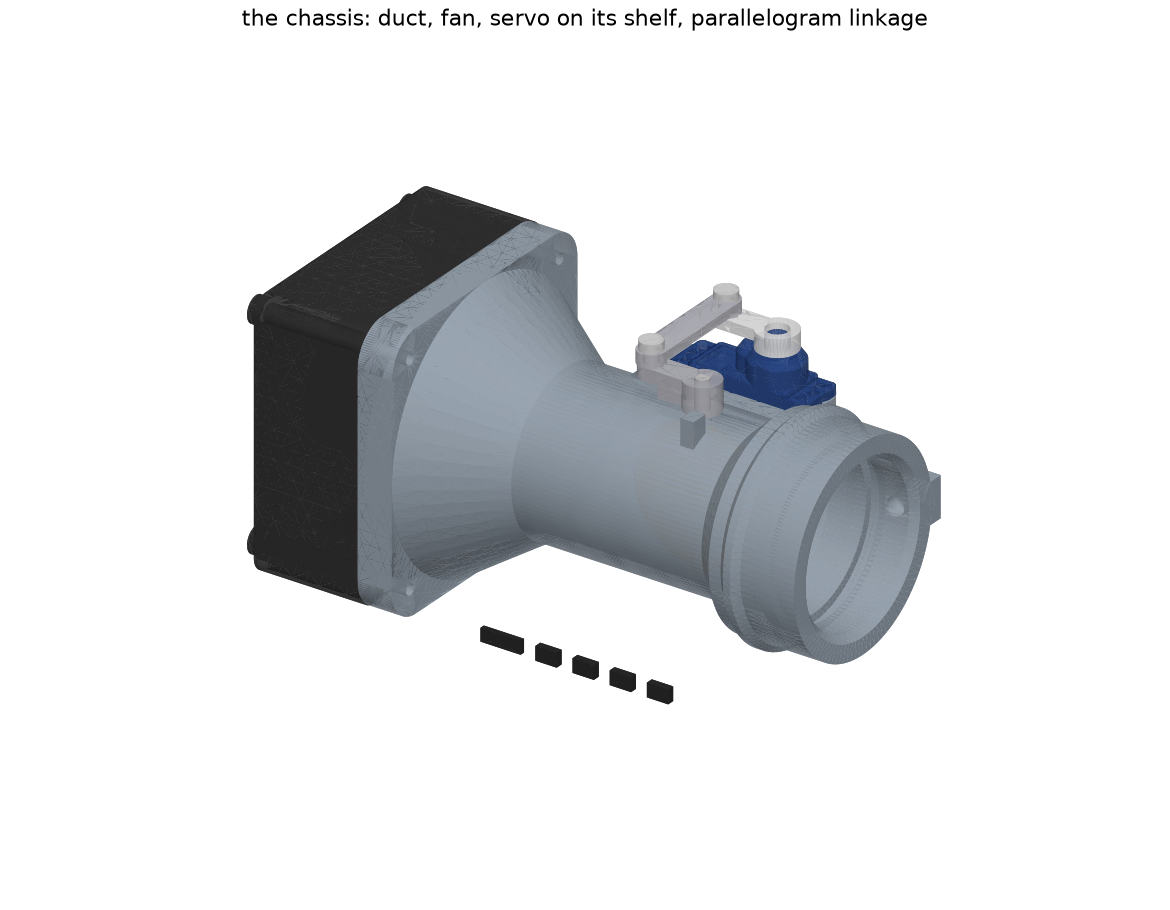
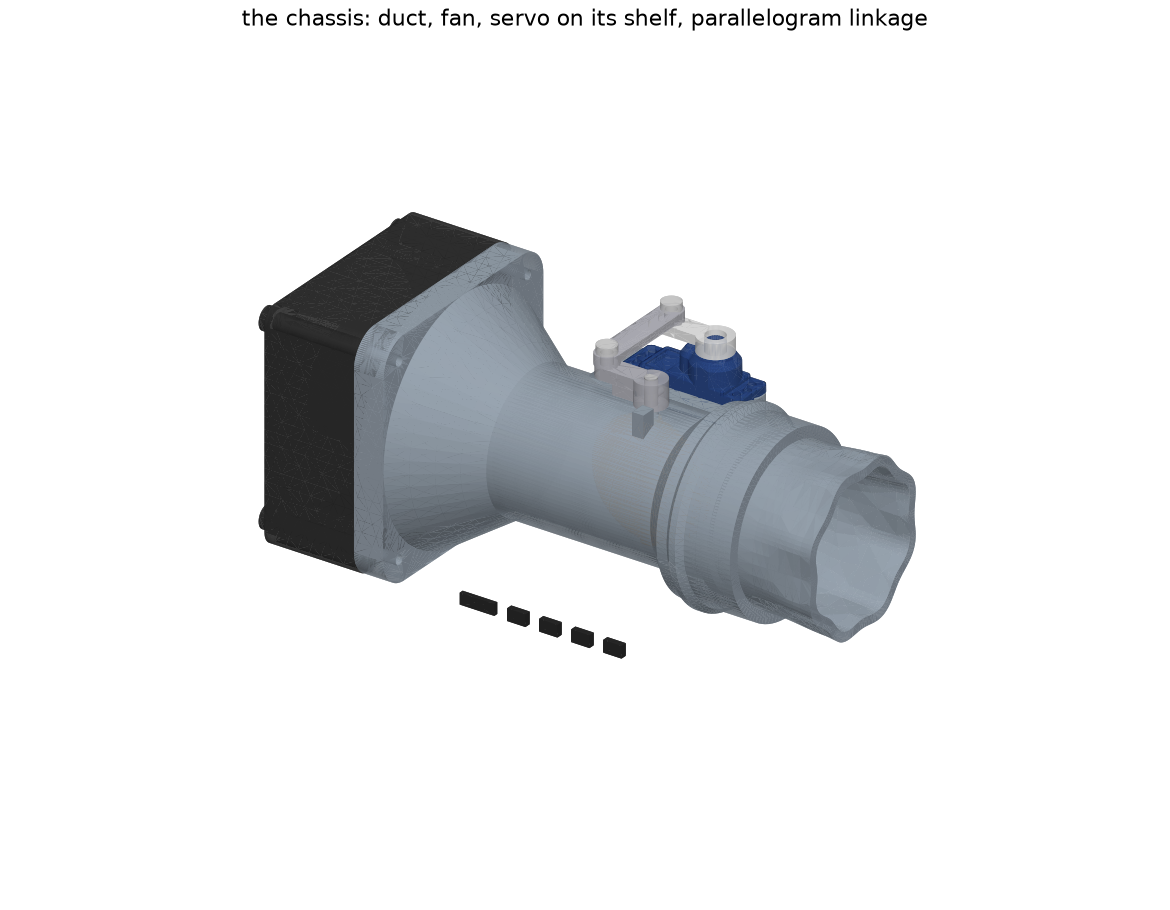
Duct: 20 mm socket extension with an 8-lobe gripping bore; the M4 thumbscrew goes (e5g). The socket runs on past the old mouth (Coupling.ext_len, a placeholder). Over it the bore goes from round to eight sinusoidal lobes (+-0.81 on the radius) along a smootherstep, the mean growing 1 mm on the diame

Changed region(s): [[0.2154, 0.1846, 0.8308, 0.7692]]

diff --git a/src/minimeater/mech/parts.py b/src/minimeater/mech/parts.py
@@ -12,12 +12,15 @@ from build123d import (
     Box,
     Cone,
     Cylinder,
+    Edge,
     Plane,
+    Solid,
     Sphere,
     Torus,
     Polyline,
     Pos,
     Rot,
+    Wire,
     extrude,
     make_face,
 )
@@ -75,6 +78,53 @@ def sock_r():
     return (P.tube.od + 0.3) / 2
 
 
+def smootherstep(t):
+    """0 -> 1 with zero slope and curvature at both ends."""
+    t = min(max(t, 0.0), 1.0)
+    return t * t * t * (t * (6 * t - 15) + 10)
+
+
+def lobe_amp():
+    """The wave's amplitude on the radius: with the mean bore grown by `ext_grow_d`, the crests reach `grip` into the tube
+    where the lead starts (the transition is not quite complete there)."""
+    c = P.coupling
+    s = smootherstep((c.ext_len - c.lead_len) / c.ext_len)
+    return c.ext_grow_d / 2 + (sock_r() + c.grip - P.tube.od / 2) / s
+
+
+def socket_r(x, th):
+    """The socket's bore radius at x and angle th: round up to the old mouth (x = 0), then over `ext_len` the mean grows and
+    the wave comes in along a smootherstep (crests at th = 0, 45, ...), and the last `lead_len` opens so the crests clear the tube."""
+    c = P.coupling
+    s = smootherstep(x / c.ext_len)
+    r = sock_r() + s * (c.ext_grow_d / 2 - lobe_amp() * math.cos(c.lobes * th))
+    open_ = P.tube.od / 2 + c.lead_clear - (sock_r() + c.ext_grow_d / 2 - lobe_amp())  # the crests' rise to clear the tube at the mouth
+    return r + smootherstep((x - (c.ext_len - c.lead_len)) / c.lead_len) * open_
+
+
+def _socket_stations():
+    c = P.coupling
+    step = c.ext_len / 20  # the same spacing all the way, so the loft's spline does not ring between sparse and dense sections
+    n0 = math.ceil((0.5 - g.socket_x0) / step)
+    xs = [-step * i for i in range(n0 + 1)]  # round, from the mouth back past the shoulder
+    xs += [step * i for i in range(1, 20)]  # the transition
+    xs += [c.ext_len - c.lead_len + c.lead_len * i / 4 for i in range(1, 5)]  # the lead
+    return sorted(set(round(x, 6) for x in xs))
+
+
+def socket_loft(extra=0.0, x0=None):
+    """The socket's bore offset outward by `extra` (0: the bore; the wall's thickness: the extension's outside), lofted through
+    sections from `x0` (default: behind the shoulder) to the mouth."""
+    n = 16 * P.coupling.lobes
+    wires = []
+    xs = _socket_stations() if x0 is None else [x0] + [x for x in _socket_stations() if x > x0]
+    for x in xs:
+        pts = [(x, (socket_r(x, th) + extra) * math.cos(th), (socket_r(x, th) + extra) * math.sin(th))
+               for th in (2 * math.pi * i / n for i in range(n))]
+        wires.append(Wire([Edge.make_spline(pts, periodic=True)]))
+    return Solid.make_loft(wires)
+
+
 def groove_r():
     return sock_r() + P.coupling.groove_depth
 
@@ -95,8 +145,6 @@ SHELF_Y1 = G.SERVO_Y0 + P.servo.body_w + 0.2
 SHELF_X0 = G.TAB_HOLE_XS[0] - 6.5  # the rear end leans 44 deg: room for the pilots to reach full depth
 SHELF_X1 = G.TAB_HOLE_XS[1] + 2.3  # short of the shells' front cone
 BLOCK_D = 7.0  # the blocks under the tabs, from the tab's underside: a 6 mm pilot and a 1 mm floor
-BOSS_Y0 = G.g.duct_r + 1.8  # the thumbscrew boss: from inside the socket wall out past it
-BOSS_Y1 = P.coupling.od / 2 + 3.0
 
 
 def servo_shelf():
@@ -128,16 +176,6 @@ def servo_shelf():
     return s
 
 
-def thumbscrew_boss():
-    """A block on the socket's +y side, flush with the mouth (the print bed), rounded on its -x edges; it takes
-    an M4 heat-set insert for the thumbscrew."""
-    c = P.coupling
-    hw = c.boss_w / 2
-    b = box(c.boss_x - hw, 0.0, BOSS_Y0, BOSS_Y1, -hw, hw)
-    b = b.fillet(hw - 0.8, b.edges().filter_by(Axis.Y).filter_by(lambda e: e.center().X < c.boss_x))
-    return b
-
-
 def stop_posts():
     """Two posts on the duct's crown that the crank's lug stops against: open (0 deg) the lug lies along -x and its +y face
     meets the first post; closed (90 deg) the lug lies along -y and its +x face meets the second. Both stand beside the
@@ -153,7 +191,7 @@ def stop_posts():
 
 def duct():
     """Fan flange, contraction cone, the straight bore with the flap station, the servo shelf and the socket
-    onto the intake tube, with its drip collar and the thumbscrew boss."""
+    onto the intake tube, with its drip collar and its extension toward the egg, whose lobed bore grips the tube."""
     c = P.coupling
     br, dr, w = g.bore_r, g.duct_r, g.flange_w
     xf = g.flap_x
@@ -172,19 +210,16 @@ def duct():
     outer += xcone(c.od / 2, c.collar_r, c.collar_x - 1.5 - 1.6 - dc * k, c.collar_x - 1.5 - 1.6)
     outer += xcyl(c.collar_r, c.collar_x - 1.5 - 1.6, c.collar_x - 1.5)
     outer += xcone(c.collar_r, c.od / 2, c.collar_x - 1.5, c.collar_x)
-    outer += thumbscrew_boss()
+    outer += socket_loft(P.print.wall, x0=-1.0)  # the extension, its wall following the wave; it starts inside the Ø46
     body = outer + servo_shelf() + stop_posts()
 
     # the airway and the features cut into the walls
     body -= xcone(P.fan.aperture_d / 2, br, g.fan_face_x - 0.1, g.straight_x0)
     body -= xcyl(br, g.straight_x0 - 0.01, g.socket_x0 + 0.01)
-    body -= xcyl(sock_r(), g.socket_x0, 0.5)
+    body -= socket_loft()
     body -= xcone(br, sock_r() + 0.01, g.socket_x0 - (sock_r() - br) * k, g.socket_x0 + 0.01)  # the shoulder, 44 deg
-    body -= xcone(sock_r(), sock_r() + c.lead_in, -c.lead_in, 0.0)  # lead-in chamfer at the mouth
     body -= xcyl(groove_r(), c.oring_x - 1.6, c.oring_x + 1.6)
     body -= zcyl(1.7, -dr + 1.2, dr + 1.0, xf, 0.0)  # shaft bore, blind at the bottom: a 1.2 mm skin
-    body -= ycyl(2.8, BOSS_Y0 + 2.0, BOSS_Y1 + 0.1, c.boss_x, 0.0)  # M4 heat-set insert for the thumbscrew: Ø5.6 x 4 deep, a short M4 x 4
-    body -= ycyl(2.1, br - 0.5, BOSS_Y0 + 2.1, c.boss_x, 0.0)  # the screw reaches the tube
     for sy in (-1, 1):
         for sz in (-1, 1):
             body -= xcyl(1.3, g.fan_face_x - 0.1, g.fan_face_x + 9.0, sy * P.fan.hole_pitch / 2, sz * P.fan.hole_pitch / 2)

diff --git a/tests/test_mech.py b/tests/test_mech.py
@@ -27,7 +27,7 @@ def test_part_is_one_valid_solid(printed, name):
 def test_no_interference_at_any_flap_angle(deg):
     """Every chassis part and bought part, with the flap, crank, horn, pins and coupler at `deg`."""
     allp = {**A.printed(deg), **A.bought(deg)}
-    hits = [h for h in A.interferences(allp) if set(h[:2]) != {"duct", "oring"}]  # the ring is squeezed by design
+    hits = [h for h in A.interferences(allp) if set(h[:2]) not in ({"duct", "oring"}, {"duct", "tube"})]  # the ring is squeezed and the tube gripped by design
     assert hits == []
 
 
@@ -122,8 +122,39 @@ def test_oring_seals_the_joint():
     assert A.overlap(ring, A.bought()["tube"]) < 0.5
 
 
-def test_tube_seats_on_the_shoulder_without_touching_the_duct():
-    assert A.overlap(A.bought()["tube"], A.printed()["duct"]) < 0.5
+def test_the_socket_grips_the_tube_over_its_extension_only():
+    """The tube seats on the shoulder and slides free through the round socket and the first half of the extension; the
+    lobes' crests then reach in to `grip` and the last `lead_len` lets them out again, so the tube starts freely."""
+    import math
+
+    from minimeater.mech.parts import box, lobe_amp, socket_r
+
+    c, tr = P.coupling, P.tube.od / 2
+    crest = lambda x: min(socket_r(x, math.pi * i / 64) for i in range(128))
+    assert abs(min(crest(c.ext_len * i / 100) for i in range(101)) - (tr - c.grip)) < 2e-3  # the deepest grip
+    assert abs(crest(c.ext_len) - (tr + c.lead_clear)) < 1e-9  # free at the mouth
+    assert crest(0.0) > tr and crest(c.ext_len * 0.45) > tr  # free up to the middle
+    assert abs(lobe_amp() - 0.8) < 0.02  # about +-0.8 on a mean bore 1 mm larger
+    tube, duct = A.bought()["tube"], A.printed()["duct"]
+    assert A.overlap(tube & box(-30, c.ext_len * 0.45, -30, 30, -30, 30), duct) < 0.01
+    assert A.overlap(tube, duct) > 3  # eight crest lines
+    assert duct.bounding_box().max.X == pytest.approx(c.ext_len, abs=1e-3)
+
+
+def test_the_socket_loft_follows_its_formula():
+    """Between the loft's sections the bore stays on `socket_r` (a smootherstep through the stations, no ringing)."""
+    import math
+
+    from build123d import Vector
+
+    from minimeater.mech.parts import socket_loft, socket_r
+
+    faces = socket_loft().faces()
+    for x in [-5.0] + [P.coupling.ext_len * f for f in (0.05, 0.27, 0.52, 0.77, 0.96, 0.99)]:
+        for th in (0.0, math.pi / 8, math.pi / 5):
+            r = socket_r(x, th)
+            p = Vector(x, r * math.cos(th), r * math.sin(th))
+            assert min(f.distance_to(p) for f in faces) < 0.01, (x, th)
 
 
 def test_closed_flap_leak_is_inside_the_budget():
@@ -183,7 +214,7 @@ def test_the_one_sided_flap_variant_is_a_valid_solid(monkeypatch):
 
 # Overhang inventory: faces steeper than 45 degrees off vertical, in the print pose. What is left must be
 # short bridges and small holes. A new patch or a bigger total means a change that needs a printing look.
-OVERHANG_AREA_MM2 = {"duct": 475}  # 340 + the 1.2 mm land at the shelf's rear end (27 mm2) + the front servo block's face toward the body (12 x 7 = 84 mm2, a bridge as short as it is deep) + the stop posts' ends toward the rod (two 3 mm bridges, about 8 mm2)
+OVERHANG_AREA_MM2 = {"duct": 420}  # 415 measured with the thumbscrew boss gone (its underside and hole rims were about 60): 340 - those + the 1.2 mm land at the shelf's rear end (27 mm2) + the front servo block's face toward the body (12 x 7 = 84 mm2, a bridge as short as it is deep) + the stop posts' ends toward the rod (two 3 mm bridges, about 8 mm2)
 
 
 @pytest.mark.parametrize("name", list(PARTS))
@@ -213,6 +244,7 @@ def test_export_writes_step_and_stl(tmp_path):
     for n in list(PARTS) + ["hood", "pan"]:
         assert (tmp_path / "3dprint" / f"{n}.step").stat().st_size > 1000
         assert (tmp_path / "3dprint" / f"{n}.stl").stat().st_size > 1000
+    assert print_pose("duct").bounding_box().size.Z <= 360  # MJF PA12S-HP's build height
     for n in list(PARTS) + ["hood", "pan"]:
         assert _open_edges(tmp_path / "3dprint" / f"{n}.stl") == 0, n  # watertight: the slicer and JLC3DP take it as is
     for n in ("flap", "crank", "coupler"):

diff --git a/src/minimeater/mech/params.py b/src/minimeater/mech/params.py
@@ -12,7 +12,7 @@ from dataclasses import dataclass, field
 class Tube:
     od: float = 34.93  # [stl] 1.375 in, BBQ Guru style; calipers still needed (.2.8)
     id: float = 31.6  # [forum] BBQ Guru-compatible adapters list ~31 mm ID (.2.8)
-    free_len: float = 40.0  # [est] straight length available to the socket (.2.8)
+    free_len: float = 40.0  # [est] straight length available to the socket, which needs Coupling.depth + ext_len = 40 to seat the tube on its shoulder (.2.8)
 
 
 @dataclass(frozen=True)
@@ -188,9 +188,14 @@ class Coupling:
     groove_depth: float = 1.9  # from the bore wall outward: sets the squeeze on the tube
     oring_x: float = -10.0  # groove centre
     od: float = 46.0
-    lead_in: float = 1.5
-    boss_x: float = -4.7  # thumbscrew boss centre, on the socket's +y side, outside the hood
-    boss_w: float = 9.4  # the boss: a block flush with the mouth, round on top
+    # the socket runs on past the old mouth (x = 0) toward the egg; over that length the bore goes from round to a sinusoidal
+    # section along a smootherstep, the wall following it, so its crests grip the tube (no thumbscrew)
+    ext_len: float = 20.0  # [est] placeholder: how far the socket reaches past x = 0
+    ext_grow_d: float = 1.0  # the mean bore's growth over the extension, on the diameter
+    lobes: int = 8  # crests around the bore
+    grip: float = 0.15  # radial: the crests' deepest reach into the tube, at the egg end of the transition
+    lead_len: float = 3.0  # the last stretch at the mouth opens up so the tube starts freely ...
+    lead_clear: float = 0.15  # ... to this radial clearance at the crests
     collar_x: float = -12.5  # drip collar behind the hood's front ring: a 44 deg cone r23 -> r24.5 toward -x, 0.3 off the shells' cone
     collar_r: float = 24.5
 
@@ -202,7 +207,7 @@ class Layout:
 
     board_x1: float = -24.5  # board's front edge: under the socket flare's first mm, clear of the shells' front cone
     straight_over: float = 2.5  # the board's rear edge may sit this far into the cone (its outer r grows 0.5/mm): 1.0 for the parts, plus Pcb.usb_end, where only the USB-C stands
-    x_front: float = -11.0  # the front face: the socket's last 11 mm and the thumbscrew are outside
+    x_front: float = -11.0  # the front face: the socket's last 11 mm and its extension are outside
     rear_gap: float = 4.5  # fan's rear face to the rear wall's inner face: the fan screw heads and the inlet
     front_screw_x: float = -18.0  # the front shell screws, in the shells' thick front zone
     slope: float = 1.0355  # run per rise of every designed overhang: 44 degrees, inside the 45 the printer allows

diff --git a/src/minimeater/mech/export.py b/src/minimeater/mech/export.py
@@ -19,7 +19,7 @@ from .printing import ALL, print_pose
 BUILDS = 5  # the first run: five units
 
 PRINT_NOTES = {
-    "duct": "airway, fan flange, servo shelf, O-ring socket, M4 thumbscrew boss: the hot part (the socket sits on the egg's intake tube); print flange down, as exported",
+    "duct": "airway, fan flange, servo shelf, O-ring socket with a 20 mm extension whose 8-lobe bore grips the tube: the hot part (the socket sits on the egg's intake tube); print flange down, as exported",
     "hood": "upper shell; print nose up on the rear face, as exported",
     "pan": "lower shell with the port bay and the board standoffs; print nose up on the rear face, as exported",
 }
@@ -57,8 +57,7 @@ def write_packages(out: Path):
                     z.write(f, f.name)
 
     package(out / "3dprint", "minimeater-3dprint.zip", readme("minimeater printed parts (print pose; mm)", list(PRINT_NOTES.items()), [
-        "Material: MJF PA12S-HP (black nylon), all three parts; see docs/jlc3dp.md. No threaded-insert service: we fit the",
-        "duct's one M4 insert (the thumbscrew boss) ourselves, and all other screws go",
+        "Material: MJF PA12S-HP (black nylon), all three parts; see docs/jlc3dp.md. No threaded inserts: all screws go",
         "straight into the plastic. Shell walls are 2.8 mm, the duct's 2.2-2.4. Ream the duct's bore at the flap station (x = -37.5, Ø32 H7 +0.025/0,",
         "about 40 mm of it) after printing: the machined flap's gap to it is 0.15 mm.",
     ]))

diff --git a/tests/test_skin.py b/tests/test_skin.py
@@ -39,7 +39,7 @@ def test_shells_clear_the_internals(shells, deg):
 def test_envelope():
     shell, with_nose = K.envelope()
     assert shell == (118.2, 75.2, 73.9)  # x, y, z: the rear face to the front ring, the width, the belly to the crown
-    assert with_nose == (129.2, 75.2, 73.9)  # plus the exposed socket and the thumbscrew boss
+    assert with_nose == (149.2, 75.2, 73.9)  # plus the exposed socket and its 20 mm extension
 
 
 def test_the_bay_is_closed_over_the_ports(shells):

diff --git a/src/minimeater/mech/shell.py b/src/minimeater/mech/shell.py
@@ -426,7 +426,7 @@ def internals(flap_deg=0.0):
 
 
 def envelope():
-    """Bounding box sizes (dx, dy, dz): the shells alone, and with the exposed socket and thumbscrew boss."""
+    """Bounding box sizes (dx, dy, dz): the shells alone, and with the exposed socket and its extension."""
     sh = hood() + pan()
     b = sh.bounding_box()
     s = (sh + internals()["duct"]).bounding_box()

diff --git a/docs/mech.md b/docs/mech.md
@@ -16,17 +16,17 @@ This is the second design (v1): the v0 box with the board over the fan and the s
 
 ## Layout
 
-Frame: +X is the flow, the tube axis is the X axis, +Z is up, +Y is to the left looking along the flow (toward the egg). The socket mouth is the plane x = 0, the body extends to -X. Overall 126 × 74 × 73 mm (x × y × z) including the 11 mm of socket and the thumbscrew that show at the front; the shells alone are 115 long. v0 with its skin was 112 × 76 × 97.
+Frame: +X is the flow, the tube axis is the X axis, +Z is up, +Y is to the left looking along the flow (toward the egg). The socket mouth is the plane x = 0, the body extends to -X. Overall 149 × 75 × 74 mm (x × y × z) including the 31 mm of socket that shows at the front (11 mm of the original socket and its 20 mm extension); the shells alone are 115 long. v0 with its skin was 112 × 76 × 97.
 
 Everything sits in one tunnel at the fan's height. From the back: the louvred rear wall, a 5 mm gap for the fan's screw heads, the fan (60 × 60 × 25, x = -121.5 to -96.5), the 27 mm cone from its Ø58 bore to the Ø32 bore (half-angle 26°), 42 mm of straight bore with the flap at x = -37.5, a 44° flare up to the Ø46 socket, and the socket's 20 mm on the tube. The board lies flat under the straight section, parts up: its 11 mm keep-out ends 1 mm under the duct, and it is the belly's depth (the belly is 5.7 mm under the fan). The servo stands beside the duct on the +y side, output up, and drives the flap through a parallelogram over the duct's crown. The ports are in the -y flank, low, under the body's overhang.
 
 | Part | Print pose | What |
 |---|---|---|
-| `duct` | flange on the bed, flow axis up | fan flange (62 square, r8), cone, bore with the flap station, servo shelf, flare, socket with O-ring groove, drip collar and thumbscrew boss |
+| `duct` | flange on the bed, flow axis up | fan flange (62 square, r8), cone, bore with the flap station, servo shelf, flare, socket with O-ring groove, drip collar and the 20 mm lobed extension |
 | `hood` | standing on its rear face, nose up | the upper shell: half the nose notch, half the grille, the screw bosses, the seam rib, the label recess |
 | `pan` | the same | the lower shell: the board on three standoffs, the port bay, the ambient louvres, the flange pads, the screw columns, the seam tongue |
 
-The chassis is the duct with the fan screwed to its flange, the servo on its shelf, the linkage and the rod: a working damper on its own, before any shell goes on. Bought: fan (with 4 of its screws, from the rear), servo with a Secraft 15 mm aluminium arm (Hitec 24T) and 2 M2 × 6, a Ø3 rod 42.7 mm long (+-0.1: its end stands 0.3 mm above the crank and 0.6 mm under the coupler when the flap is closed) with a 2.5 mm D flat, not yet sourced, the made `crank` and `coupler` (below), two M2 shoulder screws (Ø3 shoulder, 3 mm long) with nyloc nuts and washers for the pivots, a 34 × 2.5 O-ring, an M4 heat-set insert and thumbscrew, 3 M2.5 × 6 for the board, 2 M2.5 × 20 and 2 M2 × 16 for the shells, five silicone caps.
+The chassis is the duct with the fan screwed to its flange, the servo on its shelf, the linkage and the rod: a working damper on its own, before any shell goes on. Bought: fan (with 4 of its screws, from the rear), servo with a Secraft 15 mm aluminium arm (Hitec 24T) and 2 M2 × 6, a Ø3 rod 42.7 mm long (+-0.1: its end stands 0.3 mm above the crank and 0.6 mm under the coupler when the flap is closed) with a 2.5 mm D flat, not yet sourced, the made `crank` and `coupler` (below), two M2 shoulder screws (Ø3 shoulder, 3 mm long) with nyloc nuts and washers for the pivots, a 34 × 2.5 O-ring, 3 M2.5 × 6 for the board, 2 M2.5 × 20 and 2 M2 × 16 for the shells, five silicone caps.
 
 The full list of what to buy, with quantities for five units, is `docs/ordering.md`.
 
@@ -34,7 +34,7 @@ The full list of what to buy, with quantities for five units, is `docs/ordering.
 
 - The socket is a Ø35.23 bore (tube Ø34.93 plus 0.3), 20 mm deep. A 44° chamfer at its bottom is the shoulder the tube stops on; it leaves 1.8 mm for a 1.67 mm tube wall, so the airway is flush.
 - The joint is downstream of the flap, so a leak there bypasses it (`docs/parts/heatermeter-adapter.md`). An O-ring in a groove seals it: a 34 × 2.5 ring stretches 2.7 % over the tube and is pinched 0.45 mm (18 %) between the tube and the groove bottom; the test holds that to 10-30 % squeeze and under 5 % stretch.
-- Retention is friction plus an M4 thumbscrew, now on the socket's +y side, 4.7 mm from the mouth: a 9.4 mm block flush with the mouth (so it prints), outside the hood, reachable with the shells closed.
+- Retention is the socket's own grip; there is no thumbscrew. The socket runs on 20 mm past the old mouth (x = 0 to 20, `Coupling.ext_len`, a placeholder; the tube then needs 40 mm of straight length to seat on the shoulder). Over that length the bore goes from round to eight sinusoidal lobes (±0.81 mm on the radius) along a smootherstep (6t⁵ − 15t⁴ + 10t³: no slope or curvature step at either end), its mean growing 1 mm on the diameter on the same curve; the wall (2.4 mm) follows the wave, so the lobes can flex. The crests reach the tube about 10 mm in and 0.15 mm into it at x ≈ 17 (`Coupling.grip`); the last 3 mm opens so the crests clear the tube by 0.15 at the mouth and it starts freely. Tests check the grip profile and that the loft stays on its formula (`test_the_socket_grips_the_tube_over_its_extension_only`, `test_the_socket_loft_follows_its_formula`).
 - A collar behind the hood's front ring (Ø49, a 44° cone on its front, a chamfer behind) seats on the shells' front cone 0.3 mm away: it stops the chassis moving forward and catches water that gets past the nose.
 
 ## Flap and linkage
@@ -78,7 +78,7 @@ The box lives outdoors; the target is IPX4 (splashed from any direction, no imme
 - Ports: in the bay, 9.05 mm under the eave with its drip lip, in a vertical wall; the floor is the belly's round, open all along. Silicone caps for USB-C and unused jacks (untethered: the end walls have no holes). A probe plug in a jack is a 2.5 mm barrel in a Ø5 hole beside the housing: not sealed; the jack's own body is the next barrier.
 - Inlet: 44° louvres, blades 4.5 mm long. No straight path to the fan at any angle up to 44° from the horizontal; spray from steeper below gets to the fan's rear face, which the fan tolerates.
 - Ambient louvre: two slots straight through the pan floor under the sensor; what gets in meets the sensor's face, and the board shields it from the duct.
-- Seam: along the flanks the pan's inner half-wall rises 3 mm inside the hood's wall and a 1.4 mm rib from the hood hangs 3 mm inside that: the path turns twice. At the rear wall the pan's inner half rises 1.2 mm behind a 44° face. At the nose the two half-round notches close on the socket with 0.5 mm of play; the collar inside the front ring stops what runs along the socket. The thumbscrew's insert hole is blind on the outside and opens into the bore between the mouth and the O-ring, which drains out of the mouth.
+- Seam: along the flanks the pan's inner half-wall rises 3 mm inside the hood's wall and a 1.4 mm rib from the hood hangs 3 mm inside that: the path turns twice. At the rear wall the pan's inner half rises 1.2 mm behind a 44° face. At the nose the two half-round notches close on the socket with 0.5 mm of play; the collar inside the front ring stops what runs along the socket. No hole goes through the socket's wall.
 - Top: the roof crowns and rolls; no flat pocket. The label is on a vertical flank.
 
 Nothing is proven. The spray test (IEC 60529 IPX4: oscillating tube, 10 L/min, 10 min, then open and look) is a bead to file; the first thing it will say is whether the nose notch and the port holes need gaskets.
@@ -87,7 +87,7 @@ Nothing is proven. The spray test (IEC 60529 IPX4: oscillating tube, 10 L/min, 1
 
 Printed at 0.4 mm: seven perimeters on the shells (2.8 mm walls), six on the duct (2.4 mm). Every designed overhang is 44°, inside the 45 the test allows, so the inventory (`overhangs()` in `printing.py`: downward faces steeper than 45° in the print pose) lists only what is meant to be there:
 
-- `duct`, flange down: the O-ring groove's 2 mm ceiling (221 mm², a bridge as in v0), the underside of the thumbscrew boss (13 mm², 9 × 3) and the rims of its hole and the insert's. The flare, the collar's chamfer, the shoulder, the shelf's ends and the shelf's bosses are the 44° features for this pose.
+- `duct`, flange down: the O-ring groove's 2 mm ceiling (221 mm², a bridge as in v0). The flare, the collar's chamfer, the shoulder, the shelf's ends and the shelf's bosses are the 44° features for this pose.
 - `hood` and `pan`, nose up on the rear face: about 60 and 50 mm² of slivers at the ends of the rear pads and around the port openings (the test caps each shell at 150, no patch over 60). The cavity's front is a 44° cone down to the nose hole (plus a 44° wedge under it in the pan, so the board's corners fit), the screw bosses and standoffs are teardrop columns pointed down, every hole along z is a teardrop pointed up, and the bay's end walls and the ambient well's cross fins lean 44°. The USB-C opening's top is a 13 mm bridge.
 
 Minimum feature 0.8 mm: the louvre blades are 1.1 at the faces, the webs between port holes 1.3.
@@ -101,7 +101,7 @@ Minimum feature 0.8 mm: the louvre blades are 1.1 at the faces, the webs between
 - Length: the front cone that makes the shells printable eats the cavity's corners for the last 25 mm, so the board had to move 1.5 mm back; with the 5 mm rear gap for the fan's screw heads the body is 126 long against the 124 aimed at. The horizontal board costs 7 mm of height over a vertical one (73 against 66).
 - Airflow: the inlet turns 44° through the louvres; the open area is still 22 % more than v0's grille. The rear gap is 5 mm, so the inlet sees the pads and the screw heads.
 - Heat: the socket is outside the shells; the board is under the straight section, not under the socket. The servo is beside the cone, in the fan's air.
-- Service: the hood comes off upward on four screws from below; the pan brings the board with it; the chassis stays on the tube. The fan comes off the flange from the rear once the chassis is out. The thumbscrew is on the side, not the top.
+- Service: the hood comes off upward on four screws from below; the pan brings the board with it; the chassis stays on the tube. The fan comes off the flange from the rear once the chassis is out. The duct pulls off the tube against the lobes' grip.
 - Plugs: the bay is under the body: plugging in is by feel from the side, the overmolds are 0.7 mm apart, and the recess is 7 mm, so a plug with an overmold longer than 18 mm stands proud of the flank.
 - Board: 47.5 × 54, turned over, 6.4 mm under it (3.7 along the +y edge, where the floor curves up) and 2.5 above; the two front corners have under 1 mm to the cone.
 

diff --git a/docs/ordering.md b/docs/ordering.md
@@ -27,8 +27,6 @@ The printed and machined parts are in `build/mech/3dprint` (JLC3DP, all three in
 | M2.5 × 20 screw | 2 | 10 + 4 | named | Shell, front pair, from the belly. Pan-head or cheese-head: the head sits in a Ø4.6 channel, so a head up to 4.5 mm. |
 | M2 × 16 screw | 2 | 10 + 4 | named | Shell, rear pair. |
 | 34 × 2.5 O-ring | 1 | 5 + 5 | size named, **material is my pick** | Seals the duct's socket on the egg's tube, which can reach 65-90 °C (the `.2.5` thermal check is still open): FKM or silicone, not NBR. |
-| M4 × 4 brass heat-set insert (short) | 1 | 5 + 5 | named | Pressed into the thumbscrew boss on the duct with a soldering iron: the pocket is Ø5.6 and 4 mm deep, so a short insert (about 4 mm long, for a Ø5.6 hole); check the hole size against its data sheet. JLC3DP's insert service is not used (`docs/jlc3dp.md`). |
-| M4 thumbscrew, stainless | 1 | 5 + 5 | length not chosen | Reaches the 34.93 mm tube through a short boss: measure on the first print. |
 | Silicone port caps | 5 | 25 | **unsourced** | One for the USB-C port and four for the jacks; the bay has nowhere to tie them. Any USB-C cap and 2.5 mm jack cap that fit the openings (USB-C 13.2 × 7.4, jack Ø5): measure the first print. |
 | Clear Ø1.75 mm filament | ~15 mm | 1 piece | named | The LED's light pipe, glued flush in a Ø1.9 hole. |
 | Retaining compound, removable grade (Loctite 641 or similar) | | 1 bottle | my pick | The flap on the rod. A permanent grade (638) would make the rod impossible to pull for sanding the duct. |
@@ -56,6 +54,6 @@ Not on this list because you already have them: the egg and its Ø34.93 intake t
 
 ## 5. Open items
 
-- The port caps and the thumbscrew length are not sourced. The rod is quoted (above), not yet ordered.
+- The port caps are not sourced. The rod is quoted (above), not yet ordered.
 - The shoulder screw's head size and thread length are to confirm with the supplier.
 - The O-ring material waits for the tube temperature measurement (`.2.5`).

diff --git a/docs/sourcing.md b/docs/sourcing.md
@@ -20,7 +20,6 @@ Companion to `docs/ordering.md` (what and how many). Researched 2026-10-12 from 
 
 | Part | What was found | Options |
 |---|---|---|
-| M4 thumbscrew, stainless | No M4 knurled thumb screw turned up at McMaster; its M4 spade-head items are thumb **nuts**. AFT Fasteners lists Kipp K0140.042X10 (DIN 464 knurled, M4 × 10, stainless; $63.82 per 10). Aspen Fasteners has stainless DIN 465 (slotted, high) in 5 and 6 mm only. | DIN 464 M4 × 10 or × 12 in 304/316 is the part to ask for: any fastener house. First measure the length (the order list already says so). |
 | M2 thread-forming screws (6 and 16 mm) | McMaster has the family (Phillips and Torx, 18-8, flat, pan and others) but I could not read its M2 rows. The M3 flat head T8 is 95893A191, so M2 exists in the same group. | Open McMaster's "Thread-Forming Screws for Plastic", filter M2, pan head, 316 or 18-8 stainless, lengths 6 and 16. Or buy the plain M2 machine-screw assortment (Albany County 1060-096 has M2 × 6 and × 12 but no × 16) and run the printed pilots as machine thread. |
 | M2 nyloc nuts, M2 washers | Not searched; stocked by McMaster, Grainger, any fastener house in A2 and A4. | A stainless M2 assortment kit with nuts and washers would cover both. |
 
@@ -40,4 +39,4 @@ Companion to `docs/ordering.md` (what and how many). Researched 2026-10-12 from 
 - **JLCCNC:** the rod, with the flap, crank and coupler.
 - **Mouser or Digi-Key:** the KK headers.
 - **Hobby shops:** servo, arm, fan.
-- **Amazon or a fastener house:** the thumbscrew, retaining compound, filament, USB-C caps.
+- **Amazon or a fastener house:** retaining compound, filament, USB-C caps.

diff --git a/docs/jlc3dp.md b/docs/jlc3dp.md
@@ -46,7 +46,7 @@ Sources: [service page](https://jlc3dp.com/help/article/threaded-insert-service)
 
 ### What it does to our design
 
-Decided 2026-10-14: **the service is not used.** We fit the one M4 insert ourselves (below).
+Decided 2026-10-14: **the service is not used.** The one M4 insert went with the thumbscrew: the socket's lobed extension grips the tube instead (`minimeat-e5g`). What follows is the reasoning as it stood.
 
 
 The only insert is the M4 for the thumbscrew in the duct's boss, and it does not fit the service's rules: the boss is a 9.4 mm block with a Ø5.6 hole (a typical heat-set size), so the wall is 1.9 mm, not 3.0, the hole is 1.0 mm wider than their Ø4.6, and the flat is not 14 × 14. Using the service would mean a bigger block (at least 10.6 mm across the hole, and 14 × 14 flat) and the Ø4.6 hole in the CAD, and the flat does not fit: the boss stands between the hood's front face (x -11) and the socket's mouth (x 0), so it can be at most about 10.5 mm along x unless the socket or the nose moves. So the boss stays as it is (Ø5.6 × 4 mm pocket) and takes a short M4 × 4 brass heat-set insert, pressed in with a soldering iron with the small ones (heat-set holds well in PA12).
